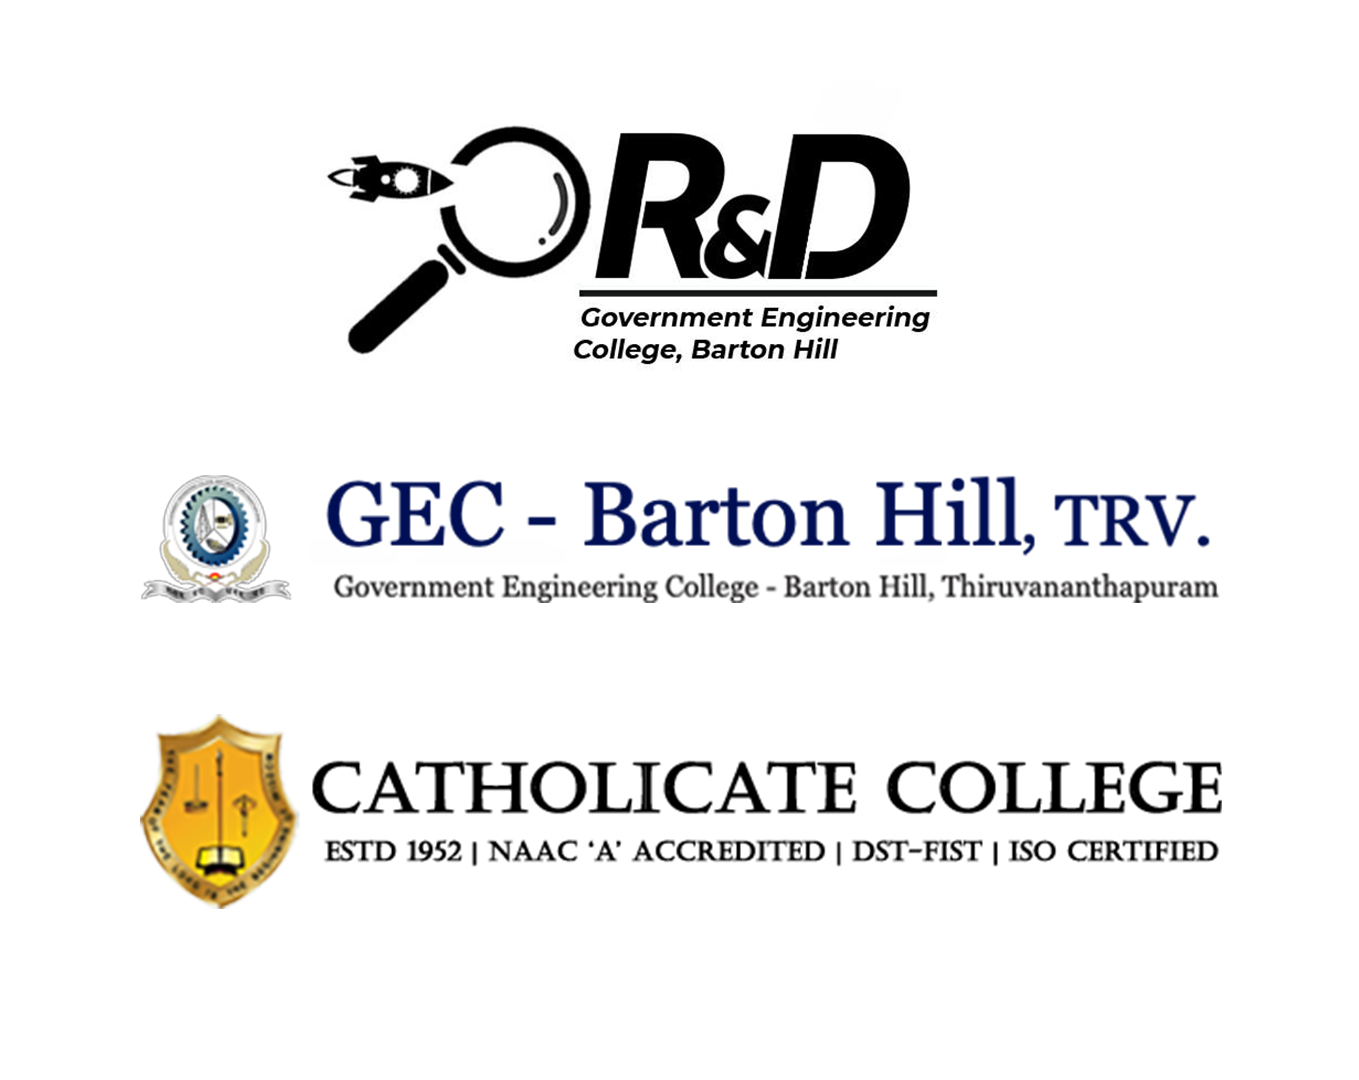
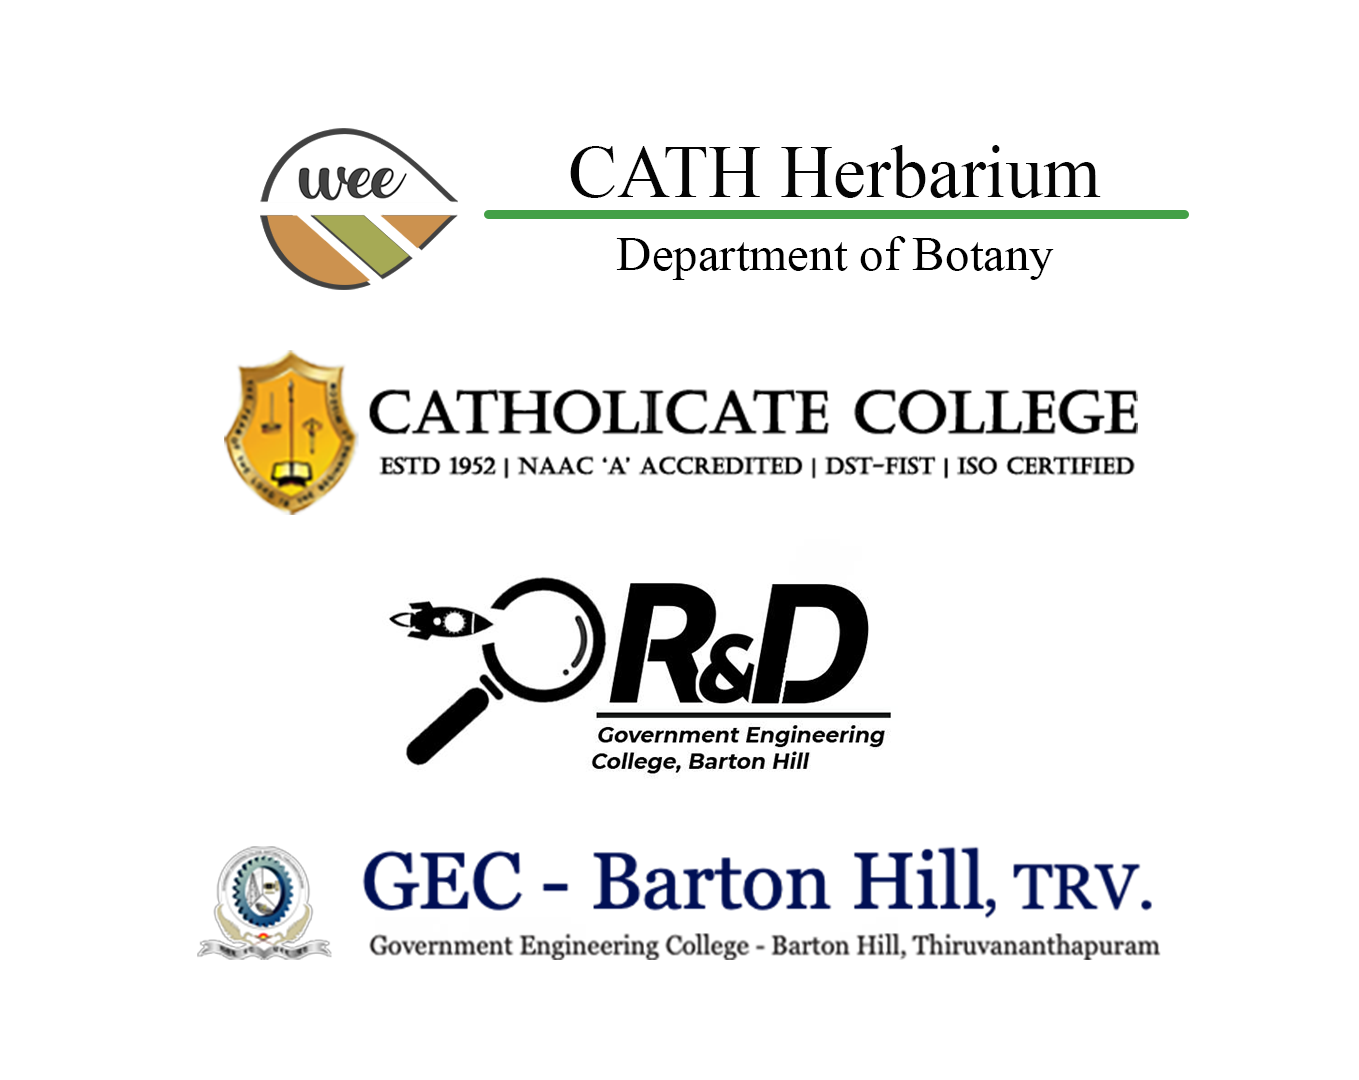
Final changes applied

Changed region(s): [[0.0927, 0.0917, 0.8962, 0.8861]]

diff --git a/lib/generator.dart b/lib/generator.dart
@@ -42,7 +42,7 @@ Future<Page> makePage(Iterable<Map> values, bool label, callback) async {
   List qrCodes = await makeQrcodes(valuesList, callback);
   return Page(
       theme: ThemeData(defaultTextStyle: TextStyle(font: Font.times())),
-      margin: EdgeInsets.only(top: 90),
+      margin: EdgeInsets.only(top: 1),
       pageFormat: PdfPageFormat.a4,
       build: (context) {
         return Column(
@@ -60,19 +60,19 @@ Widget itemBlock(Map value, label, List qrCodes) {
     Column(children: [
       Row(children: [
         Container(
-          margin: EdgeInsets.all(PdfPageFormat.cm * 0.1),
+          margin: EdgeInsets.all(PdfPageFormat.cm * 0.5),
           height: PdfPageFormat.cm * 2.5,
           width: PdfPageFormat.cm * 2.5,
           child: Image(qrCodes[0]),
         ),
         Container(
-          margin: EdgeInsets.all(PdfPageFormat.cm * 0.1),
+          margin: EdgeInsets.all(PdfPageFormat.cm * 0.5),
           height: PdfPageFormat.cm * 2.5,
           width: PdfPageFormat.cm * 2.5,
           child: Image(qrCodes[1]),
         ),
         Container(
-          margin: EdgeInsets.all(PdfPageFormat.cm * 0.1),
+          margin: EdgeInsets.all(PdfPageFormat.cm * 0.5),
           height: PdfPageFormat.cm * 2.5,
           width: PdfPageFormat.cm * 2.5,
           child: Image(qrCodes[0]),
@@ -90,7 +90,7 @@ Widget itemBlock(Map value, label, List qrCodes) {
 
 Container outerLabelBlock(value) {
   return Container(
-      margin: EdgeInsets.all(PdfPageFormat.cm * 0.1),
+      margin: EdgeInsets.only(bottom: PdfPageFormat.cm * 0.5),
       height: PdfPageFormat.cm * 2,
       width: PdfPageFormat.cm * 8,
       decoration: BoxDecoration(border: Border.all()),
@@ -107,7 +107,7 @@ Container outerLabelBlock(value) {
                       '${value['Author citation'] ?? ''} ${value['Infraspecific category'] ?? ''} ',
                   style: TextStyle(font: Font.times())),
               TextSpan(
-                  text: '${value['Epithet']} ',
+                  text: '${value['Epithet'] ?? ''} ',
                   style: TextStyle(font: Font.timesBoldItalic())),
               TextSpan(
                   text: '${value['Author']}',
@@ -312,11 +312,9 @@ Widget dataSheetItemBlock(Map value) {
                   child: leftBlock(value),
                   width: PdfPageFormat.a4.width / 3 - 45),
               Container(
-                  color: PdfColor.fromHex('#ffffff'),
-                  width: PdfPageFormat.a4.width / 3 - 25),
-              Container(
+                  padding: EdgeInsets.only(left: 18),
                   child: rightBlock(value),
-                  width: PdfPageFormat.a4.width / 3 - 45),
+                  width: (PdfPageFormat.a4.width / 3 - 45) * 2),
               Expanded(
                   child: Transform(
                       adjustLayout: true,
@@ -390,6 +388,7 @@ Widget leftBlock(Map value) {
           TextSpan(
               text: '${value['Author']}', style: TextStyle(font: Font.times())),
         ])),
+    Text('Family: ${value['Family'].toUpperCase()}'),
     Text(content2)
   ]);
 }

diff --git a/lib/views/about.dart b/lib/views/about.dart
@@ -31,9 +31,9 @@ class AboutView extends StatelessWidget {
                 ),
               ),
               Padding(
-                padding: const EdgeInsets.only(top: 50),
+                padding: const EdgeInsets.only(top: 20),
                 child: Text(
-                  'This app is a collaborative project of Catholicate College Pathanamthitta and Government Engineering College Barton Hill.',
+                  'This app is a collaborative project of CATH Herbarium, Department of Botany, Catholicate College, Pathanamthitta, Kerala, India and R&D, Government Engineering College Barton Hill, Thiruvananthapuram, Kerala, India.',
                   style: TextStyle(
                     color: Theme.of(context).primaryColorLight,
                     fontSize: 20.0,
@@ -43,7 +43,7 @@ class AboutView extends StatelessWidget {
               ),
               Divider(
                 color: Theme.of(context).accentColor,
-                height: 50,
+                height: 30,
                 thickness: 2,
               ),
               Padding(

diff --git a/lib/views/procedure.dart b/lib/views/procedure.dart
@@ -203,6 +203,13 @@ class ProcedureView extends StatelessWidget {
                     fontWeight: FontWeight.normal,
                   ),
                 ),
+                Padding(
+                  padding: const EdgeInsets.all(8.0),
+                  child: ClipRRect(
+                    borderRadius: BorderRadius.circular(5),
+                    child: Image.asset('assets/sample.jpg'),
+                  ),
+                )
               ],
             ),
           )),
